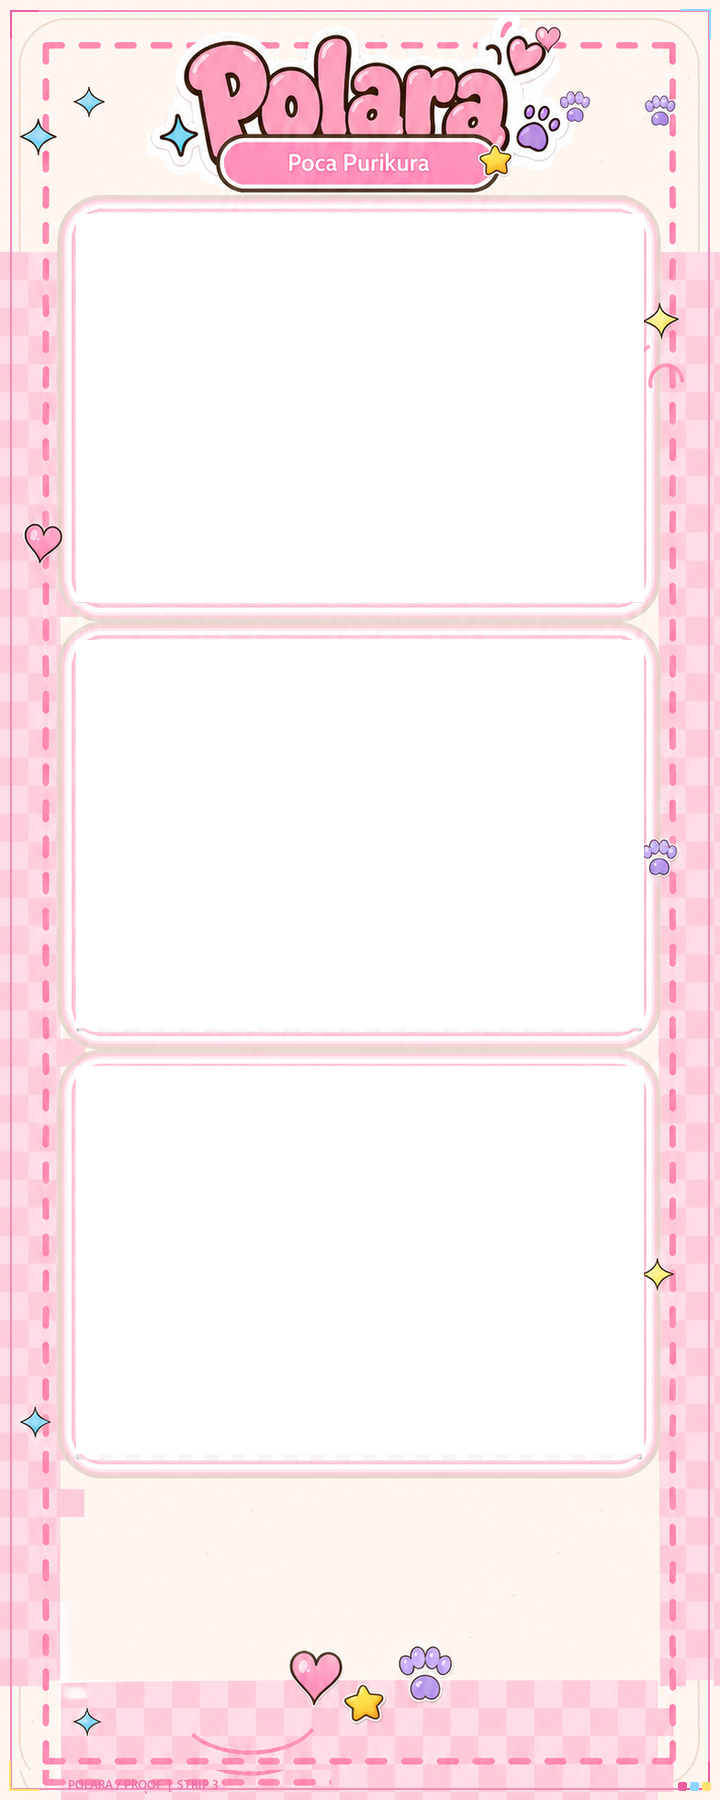
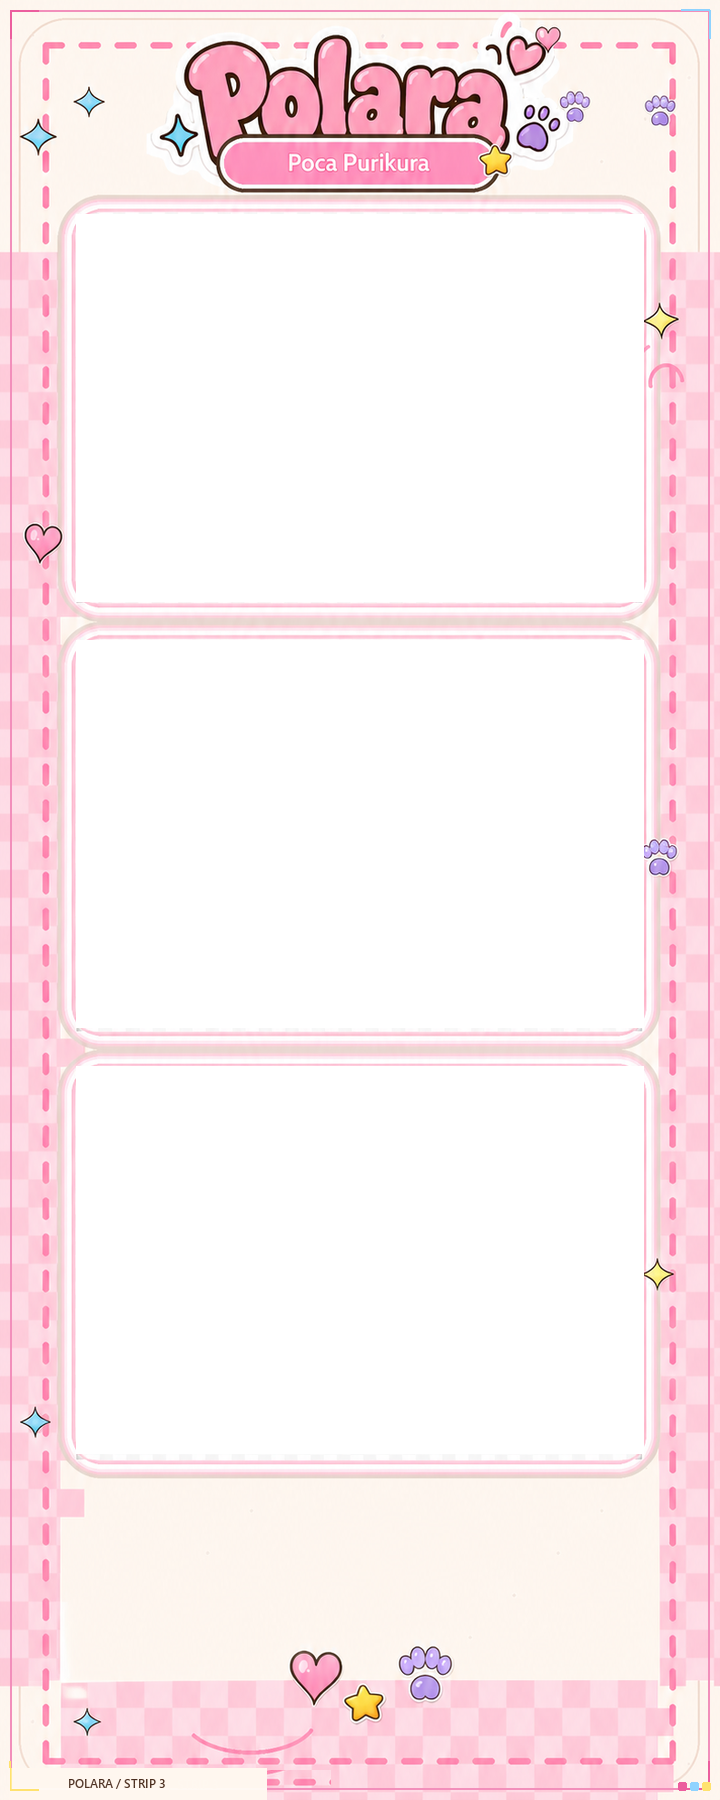
fix(assets): Polara v1.1.3 - repair Purikura footer labels

Changed region(s): [[0.0611, 0.9644, 0.3972, 1.0]]

diff --git a/src/modules/templates/frame-overlays.generated.js b/src/modules/templates/frame-overlays.generated.js
@@ -71,7 +71,7 @@ export const frameOverlayTemplates = [
         "height": 840
       }
     ],
-    "assetVersion": "frame-overlay-v5",
+    "assetVersion": "frame-overlay-v8",
     "slotBackground": "#fff7ef",
     "supportsDynamicText": false,
     "metadataZones": {
@@ -144,7 +144,7 @@ export const frameOverlayTemplates = [
         "height": 388
       }
     ],
-    "assetVersion": "frame-overlay-v7",
+    "assetVersion": "frame-overlay-v8",
     "slotBackground": "#fff7ef",
     "supportsDynamicText": false,
     "metadataZones": {
@@ -205,7 +205,7 @@ export const frameOverlayTemplates = [
         "height": 840
       }
     ],
-    "assetVersion": "frame-overlay-v5",
+    "assetVersion": "frame-overlay-v8",
     "slotBackground": "#fff7ef",
     "supportsDynamicText": false,
     "metadataZones": {
@@ -278,7 +278,7 @@ export const frameOverlayTemplates = [
         "height": 388
       }
     ],
-    "assetVersion": "frame-overlay-v7",
+    "assetVersion": "frame-overlay-v8",
     "slotBackground": "#fff7ef",
     "supportsDynamicText": false,
     "metadataZones": {

diff --git a/src/app.js b/src/app.js
@@ -11,7 +11,7 @@ import { applyPhotoGeometry, computePhotoGeometry, initializePhotosForFrame, pat
 import { applyGuestImageGeometry, computeGuestGeometry } from './core/guest-geometry.js?v=2';
 import { resolveGuestPlacement, patchGuestPlacements } from './core/guest-placement.js';
 import { mountGuestPlacementControls, syncGuestPlacementControls } from './ui/guest-placement-controls.js';
-import { frameCollections, templates, getTemplate, resolveTemplateHtml, templateDims } from './modules/templates/index.js?v=18';
+import { frameCollections, templates, getTemplate, resolveTemplateHtml, templateDims } from './modules/templates/index.js?v=19';
 import { applyPhotoSlotPresentation, getPhotoSlotPresentation } from './modules/templates/photo-slot-ui.js';
 import { waitForOverlayImage } from './modules/templates/overlay-renderer.js?v=13';
 import {

diff --git a/src/modules/templates/index.js b/src/modules/templates/index.js
@@ -1,5 +1,5 @@
 // Registry runtime: geometry dan aset berasal dari manifest overlay canonical.
-import { frameCollections, frameOverlayTemplates } from './frame-overlays.generated.js';
+import { frameCollections, frameOverlayTemplates } from './frame-overlays.generated.js?v=8';
 import { buildOverlayTemplateHtml } from './overlay-renderer.js';
 
 export const templates = [...frameOverlayTemplates];

diff --git a/index.html b/index.html
@@ -722,6 +722,6 @@
       </div>
     </div>
   </footer>
-  <script type="module" src="src/app.js?v=56"></script>
+  <script type="module" src="src/app.js?v=57"></script>
 </body>
 </html>

diff --git a/tests/test_frame_footer.py b/tests/test_frame_footer.py
@@ -1,0 +1,68 @@
+from __future__ import annotations
+
+import importlib.util
+import unittest
+from pathlib import Path
+
+from PIL import Image, ImageChops, ImageDraw, ImageFont
+
+
+SCRIPT = Path(__file__).parents[1] / "scripts" / "frame_footer.py"
+SPEC = importlib.util.spec_from_file_location("frame_footer", SCRIPT)
+assert SPEC and SPEC.loader
+MODULE = importlib.util.module_from_spec(SPEC)
+SPEC.loader.exec_module(MODULE)
+
+
+class PurikuraFooterTests(unittest.TestCase):
+    def test_replaces_old_glyphs_including_pixels_below_the_baseline(self) -> None:
+        for mode, size in (("single", (1080, 1350)), ("strip", (720, 1800))):
+            with self.subTest(mode=mode):
+                font = ImageFont.load_default(size=18)
+                clean = Image.new("RGBA", size, "#ffd8e8")
+                dirty = clean.copy()
+                ImageDraw.Draw(dirty).rectangle(
+                    MODULE.footer_bounds(size), fill="#111111"
+                )
+                MODULE.draw_purikura_footer(clean, mode, font=font)
+                MODULE.draw_purikura_footer(dirty, mode, font=font)
+                self.assertEqual(clean.tobytes(), dirty.tobytes())
+
+    def test_rerender_is_pixel_identical_and_changes_only_the_reserved_footer(self) -> None:
+        for mode, size in (("single", (1080, 1350)), ("strip", (720, 1800))):
+            with self.subTest(mode=mode):
+                font = ImageFont.load_default(size=18)
+                source = Image.new("RGBA", size, "#ffd8e8")
+                ImageDraw.Draw(source).rectangle((124, 270, 600, 1000), fill=(0, 0, 0, 0))
+                left, top, _, _ = MODULE.footer_bounds(size)
+                source.putpixel((left, top), (255, 216, 232, 96))
+                image = source.copy()
+                MODULE.draw_purikura_footer(image, mode, font=font)
+                once = image.tobytes()
+                difference = ImageChops.difference(source, image)
+                ImageDraw.Draw(difference).rectangle(
+                    MODULE.footer_bounds(size), fill=(0, 0, 0, 0)
+                )
+                self.assertTrue(all(channel.getbbox() is None for channel in difference.split()))
+                self.assertEqual(source.getchannel("A").tobytes(), image.getchannel("A").tobytes())
+                MODULE.draw_purikura_footer(image, mode, font=font)
+                self.assertEqual(once, image.tobytes())
+
+    def test_rejects_wrong_canvas_or_mode_before_modifying_pixels(self) -> None:
+        for mode, size in (("single", (720, 1800)), ("strip", (100, 100)), ("other", (1080, 1350))):
+            image = Image.new("RGBA", size, "#ffd8e8")
+            before = image.tobytes()
+            with self.assertRaises(ValueError):
+                MODULE.draw_purikura_footer(image, mode)
+            self.assertEqual(before, image.tobytes())
+
+    def test_missing_font_does_not_silently_ship_a_blank_footer(self) -> None:
+        image = Image.new("RGBA", (1080, 1350), "#ffd8e8")
+        before = image.tobytes()
+        with self.assertRaises(OSError):
+            MODULE.draw_purikura_footer(image, "single", font_path=Path("missing-font.ttf"))
+        self.assertEqual(before, image.tobytes())
+
+
+if __name__ == "__main__":
+    unittest.main()

diff --git a/scripts/remaster-frame-overlays.py b/scripts/remaster-frame-overlays.py
@@ -3,11 +3,14 @@
 
 from __future__ import annotations
 
+import argparse
 import hashlib
 import json
 from pathlib import Path
 
 from PIL import Image, ImageChops, ImageColor, ImageDraw, ImageFont, PngImagePlugin
+
+from frame_footer import ASSET_VERSION, FOOTER_PROFILE, draw_purikura_footer
 
 
 ROOT = Path(__file__).resolve().parents[1]
@@ -128,18 +131,34 @@ def save_png(image: Image.Image, path: Path, source_info: dict[str, object], pro
 
 
 def main() -> None:
+    parser = argparse.ArgumentParser(description=__doc__)
+    parser.add_argument(
+        "--purikura-footer-only", action="store_true",
+        help="Repair only the four Purikura footer labels; preserve all other pixels and frames.",
+    )
+    arguments = parser.parse_args()
     manifest = json.loads(MANIFEST_PATH.read_text(encoding="utf-8"))
     if len(manifest.get("frames", [])) != 26:
         raise RuntimeError("The current Polara library expects exactly twenty-six runtime variants.")
 
-    for frame in manifest["frames"]:
-        palette = PALETTES[frame["family"]]
+    frames = [
+        frame for frame in manifest["frames"]
+        if not arguments.purikura_footer_only or frame["family"] == "poca-purikura"
+    ]
+    if arguments.purikura_footer_only and len(frames) != 4:
+        raise RuntimeError("Expected exactly four Purikura variants before writing assets.")
+    for frame in frames:
+        palette = tuple(frame.get("edgePalette") or PALETTES[frame["family"]])
         overlay_path = project_path(frame["overlaySrc"])
         with Image.open(overlay_path) as source:
             image = source.convert("RGBA")
             source_info = dict(source.info)
-        draw_edge_signature(image, palette, frame["mode"])
-        clear_photo_windows(image, frame)
+        if not arguments.purikura_footer_only:
+            draw_edge_signature(image, palette, frame["mode"])
+            clear_photo_windows(image, frame)
+        if frame["family"] == "poca-purikura":
+            draw_purikura_footer(image, frame["mode"])
+            source_info["polara:footer-profile"] = FOOTER_PROFILE
         image.putdata([
             (0, 0, 0, 0) if alpha == 0 else (red, green, blue, alpha)
             for red, green, blue, alpha in image.get_flattened_data()
@@ -147,13 +166,16 @@ def main() -> None:
         payload = save_png(image, overlay_path, source_info, PROFILE_BY_MODE[frame["mode"]])
         frame["sha256"] = hashlib.sha256(payload).hexdigest()
         frame["byteSize"] = len(payload)
-        frame["assetVersion"] = VERSION_BY_MODE[frame["mode"]]
+        frame["assetVersion"] = (
+            ASSET_VERSION if frame["family"] == "poca-purikura"
+            else VERSION_BY_MODE[frame["mode"]]
+        )
         frame["qualityProfile"] = PROFILE_BY_MODE[frame["mode"]]
         frame["edgePalette"] = list(palette)
 
     MANIFEST_PATH.write_text(json.dumps(manifest, ensure_ascii=False, indent=2) + "\n", encoding="utf-8")
     profiles = ", ".join(sorted(set(PROFILE_BY_MODE.values())))
-    print(f"[frame-remaster] applied {profiles} to {len(manifest['frames'])} variants")
+    print(f"[frame-remaster] applied {profiles} to {len(frames)} variants")
 
 
 if __name__ == "__main__":

diff --git a/scripts/frame_footer.py b/scripts/frame_footer.py
@@ -1,0 +1,58 @@
+"""Render the small, repeatable print label on existing Purikura artwork."""
+
+from __future__ import annotations
+
+from pathlib import Path
+
+from PIL import Image, ImageDraw, ImageFont
+
+
+FONT_PATH = Path("C:/Windows/Fonts/seguisb.ttf")
+FOOTER_PROFILE = "polara-purikura-footer-v1"
+ASSET_VERSION = "frame-overlay-v8"
+CANVAS_SIZES = {"single": (1080, 1350), "strip": (720, 1800)}
+
+
+def footer_bounds(size: tuple[int, int]) -> tuple[int, int, int, int]:
+    """Inclusive bounds, including old descenders below the registration line."""
+    width, height = size
+    unit = max(2, round(min(size) / 360))
+    return (unit * 5 - unit // 2, height - unit * 16, round(width * 0.37), height - 1)
+
+
+def draw_purikura_footer(
+    image: Image.Image,
+    mode: str,
+    *,
+    font: ImageFont.ImageFont | ImageFont.FreeTypeFont | None = None,
+    font_path: Path = FONT_PATH,
+) -> None:
+    """Replace the old label, never sample or layer previously rendered glyphs.
+
+    The cream ticket is confined to the lower-left print margin. It cannot
+    touch the photo windows, center charms, or three color swatches.
+    """
+    if CANVAS_SIZES.get(mode) != image.size or image.mode != "RGBA":
+        raise ValueError("Purikura footer requires its exact RGBA Single or Strip canvas.")
+    unit = max(2, round(min(image.size) / 360))
+    label_font = font or ImageFont.truetype(str(font_path), size=unit * 6)
+    label = f"POLARA / {'SINGLE' if mode == 'single' else 'STRIP 3'}"
+    position = (unit * 34, image.height - unit * 6)
+    bounds = footer_bounds(image.size)
+    draw = ImageDraw.Draw(image)
+    text_bounds = draw.textbbox(position, label, font=label_font, anchor="ls")
+    if not (
+        bounds[0] <= text_bounds[0] < text_bounds[2] <= bounds[2]
+        and bounds[1] <= text_bounds[1] < text_bounds[3] < image.height - unit * 5
+    ):
+        raise ValueError("Purikura footer text exceeds its reserved print margin.")
+
+    original_alpha = image.getchannel("A")
+    draw.rectangle(bounds, fill="#fff7ef")
+    # Restore only the registration corner covered by the ticket.
+    inset, arm = unit * 5, unit * 14
+    baseline = image.height - inset - 1
+    draw.line((inset, bounds[1], inset, baseline), fill="#ffe26f", width=unit)
+    draw.line((inset, baseline, inset + arm, baseline), fill="#ffe26f", width=unit)
+    draw.text(position, label, font=label_font, anchor="ls", fill="#4b2e1f")
+    image.putalpha(original_alpha)

diff --git a/scripts/remaster-strip-typography.py b/scripts/remaster-strip-typography.py
@@ -13,6 +13,8 @@ from pathlib import Path
 
 from PIL import Image, ImageColor, ImageDraw, ImageFont, PngImagePlugin
 
+from frame_footer import ASSET_VERSION, FOOTER_PROFILE, draw_purikura_footer
+
 
 ROOT = Path(__file__).resolve().parents[1]
 MANIFEST_PATH = ROOT / "assets" / "frames" / "frame-overlay-manifest.json"
@@ -129,8 +131,8 @@ def save_png(image: Image.Image, path: Path, source_info: dict[str, object]) -> 
 def main() -> None:
     manifest = json.loads(MANIFEST_PATH.read_text(encoding="utf-8"))
     strips = [frame for frame in manifest["frames"] if frame.get("mode") == "strip"]
-    if len(strips) != 12:
-        raise RuntimeError(f"Expected 12 Strip variants, found {len(strips)}.")
+    if len(strips) != 13:
+        raise RuntimeError(f"Expected 13 Strip variants, found {len(strips)}.")
 
     for frame in strips:
         palette = tuple(frame["edgePalette"])
@@ -139,10 +141,15 @@ def main() -> None:
             image = source.convert("RGBA")
             source_info = dict(source.info)
         draw_edge_signature(image, palette, frame["id"])
+        if frame["family"] == "poca-purikura":
+            draw_purikura_footer(image, "strip")
+            source_info["polara:footer-profile"] = FOOTER_PROFILE
         payload = save_png(image, overlay_path, source_info)
         frame["sha256"] = hashlib.sha256(payload).hexdigest()
         frame["byteSize"] = len(payload)
-        frame["assetVersion"] = VERSION
+        frame["assetVersion"] = (
+            ASSET_VERSION if frame["family"] == "poca-purikura" else VERSION
+        )
         frame["qualityProfile"] = PROFILE
 
     MANIFEST_PATH.write_text(json.dumps(manifest, ensure_ascii=False, indent=2) + "\n", encoding="utf-8")

diff --git a/scripts/generate-frame-editions.py b/scripts/generate-frame-editions.py
@@ -68,7 +68,7 @@ def main() -> None:
             "pickerThumbnailSrc": f"assets/frames/composites/{slug}-thumbnail.png",
             "sha256": hashlib.sha256(payload).hexdigest(),
             "byteSize": len(payload),
-            "assetVersion": "frame-overlay-v5",
+            "assetVersion": base["assetVersion"],
             "edgePalette": ["#7087ed", "#8fd3ff", "#ffe26f"],
         })
         frame.pop("masterSrc", None)

diff --git a/CHANGELOG.md b/CHANGELOG.md
@@ -5,6 +5,29 @@ Lihat aturan lengkap di `../../KONVENSI-VERSI.md`.
 
 ## [Unreleased]
 
+## [1.1.3] - 2026-10-13
+
+Polara v1.1.3 memperbaiki footer frame Poca Purikura.
+
+### Fixed
+
+- Bekas tulisan footer bertumpuk dibersihkan pada Poca Purikura dan Blueberry,
+  Single maupun Strip. Label POLARA / SINGLE atau POLARA / STRIP 3 memakai
+  area cetak terang dengan tinta gelap, tanpa mengubah geometry atau foto.
+- Thumbnail dan composite picker diregenerasi dari overlay canonical yang sama.
+  Hanya empat variant terkait yang memakai cache aset frame-overlay-v8.
+- Generator footer menghasilkan piksel yang sama ketika dijalankan ulang,
+  gagal jelas jika font tidak tersedia, dan membatasi perubahan ke area label.
+- Generator edisi warna mewarisi versi aset sumber; generator tipografi Strip
+  mengikuti katalog 13 Strip dan mempertahankan perbaikan label Purikura.
+
+### Added
+
+- Regresi batas area, alpha, penghapusan glyph lama, dan regenerasi footer.
+  Perintah test Python kini menjalankan seluruh test Python di repository.
+- QA Save/Share membandingkan PNG yang sama untuk unduhan, fallback, dan payload
+  berbagi; fixture cancel menjaga hasil siap disimpan, tanpa unduhan otomatis.
+
 ## [1.1.2] - 2026-10-13
 
 Polara v1.1.2 merapikan label UI dan struktur repository produksi.

diff --git a/README.md b/README.md
@@ -1,4 +1,4 @@
-# Polara v1.1.2
+# Polara v1.1.3
 
 ![Polara](assets/brand/logo-polara.png)
 
@@ -152,6 +152,12 @@ atau native Share di Android/iPhone.
   review board, dan prototype tidak masuk runtime.
 - Generator dan tes yang masih menjaga katalog tetap dipertahankan. Hapus file
   hanya setelah referensi kode, manifest, dan kebutuhan regenerasinya diperiksa.
+- Untuk memperbarui label bawah Poca Purikura saja, jalankan
+  `npm run frames:purikura-footer`, lalu `npm run assets:previews` dan
+  `npm run frames:generate`. Generator ini menjaga jendela foto dan artwork di
+  luar area label. Generator footer memakai Segoe UI Semibold dari Windows dan
+  berhenti jika font tidak tersedia; font tersebut bukan dependency website.
+  Jalankan validasi aset sebelum commit.
 - Jangan menganggap izin melihat atau memakai aplikasi sebagai izin untuk
   memakai ulang artwork atau wajah dalam pack. Repository ini tidak menyertakan
   lisensi umum penggunaan ulang aset.
